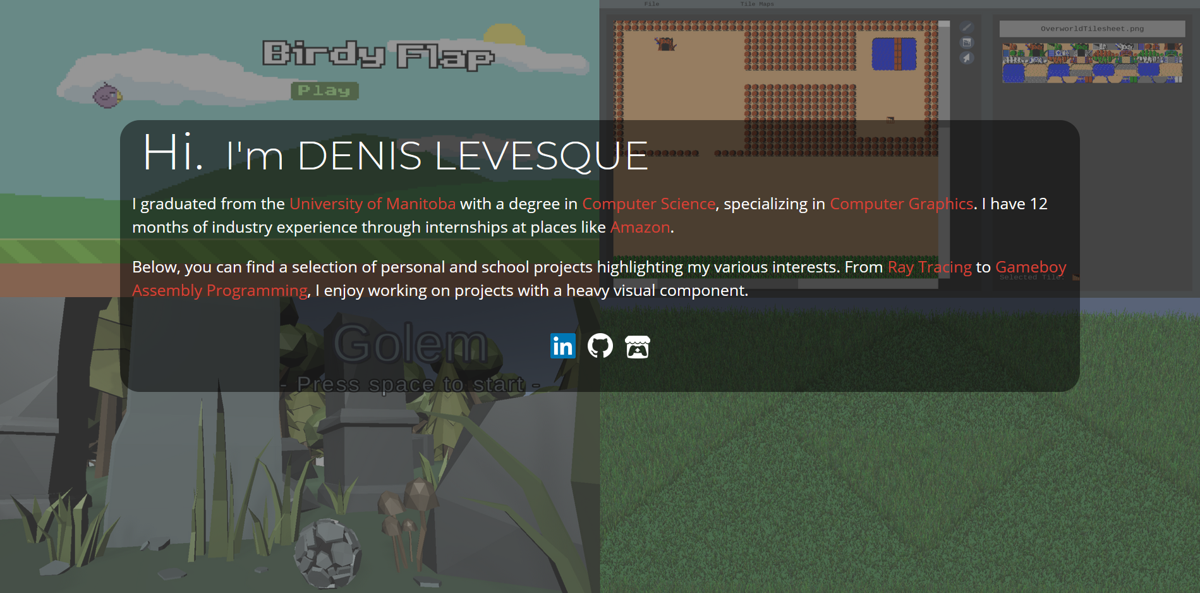
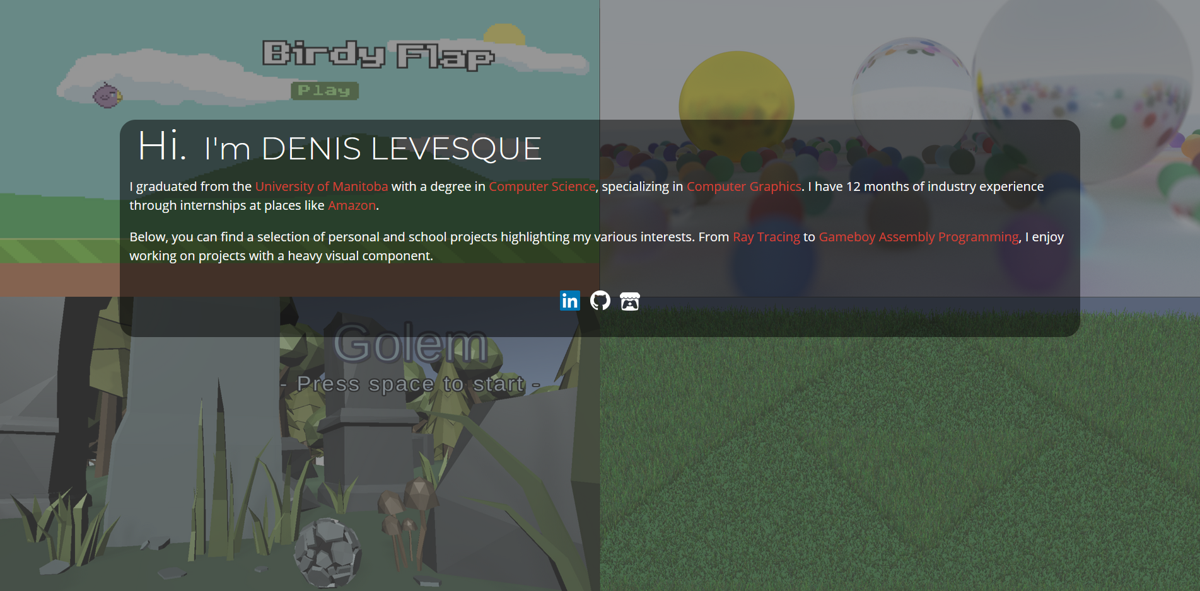
Added new ray-tracing project to website.

diff --git a/index.html b/index.html
@@ -64,6 +64,38 @@
 	<!-- ******** Project Panel ******** -->
 	<div class="grid project">
 		<div class="grid-cell text-cell">
+			<div class="projectTitle">Simple Ray-Tracer</div>
+			<div class="projectDate">2021</div>
+			<div class="projectDescription">
+				Wanting to expand my knowledge of ray-tracing, I began developing a new ray-tracer while working through Peter Shirley's
+				<a href="https://raytracing.github.io/">Ray Tracing in One Weekend</a> book. This is the result of that development.
+				It supports three different types of materials (diffuse, metal, and dialectric), a camera with customizable properties (fov, position, roll, aperture, etc.),
+				and basic multi-threading to speed up rendering.
+			</div>
+			
+			<div class="projectGithub projectLink">
+				<a href="https://github.com/DeveloperDenis/SimpleRaytracer" target="_blank"><img src="images/github_icon.png" /> View on Github!</a>
+			</div>
+			
+			<div class="projectSkills">
+				<strong>Tags:</strong> 3D, C++, Win32, Ray-Tracing, Multi-Threading
+			</div>
+		</div>
+		<div class="grid-cell image-cell">
+			<div class="slideshow-container">
+				<div class="slide">
+					<img src="images/ray-tracer-output.png" />
+				</div>
+			</div>
+
+			<div class="dots" style="text-align:center"></div>
+		</div>
+	</div>
+	<!-- ******** Project Panel End ******** -->
+
+	<!-- ******** Project Panel ******** -->
+	<div class="grid project">
+		<div class="grid-cell text-cell">
 			<div class="projectTitle">Golem</div>
 			<div class="projectDate">2021</div>
 			<div class="projectDescription">
@@ -136,7 +168,7 @@
 	<!-- ******** Project Panel ******** -->
 	<div class="grid project">
 		<div class="grid-cell text-cell">
-			<div class="projectTitle">Raytracer</div>
+			<div class="projectTitle">Raytracer Assignment</div>
 			<div class="projectDate">2018</div>
 			<div class="projectDescription">
 				One of the assignments for my fourth year Computer Graphics course was to build a simple raytracer.
@@ -146,7 +178,7 @@
 				<a href="https://github.com/DeveloperDenis/Raytracer" target="_blank"><img src="images/github_icon.png" /> View on Github!</a>
 			</div>
 			<div class="projectSkills">
-				<strong>Tags:</strong> C++, Win32, Linux, 3D
+				<strong>Tags:</strong> C++, Win32, Linux, 3D, Ray-Tracing
 			</div>
 		</div>
 		<div class="grid-cell image-cell">

diff --git a/scripts/slideshow_script.js b/scripts/slideshow_script.js
@@ -71,5 +71,9 @@ function showSlides(slideshowIndex, slideIndex)
 	}
 
 	slides[slideIndices[slideshowIndex]].style.display = "block";
-	dots[slideIndices[slideshowIndex]].className += " active";
+
+	if (dots.length > 0)
+	{
+		dots[slideIndices[slideshowIndex]].className += " active";
+	}
 }
